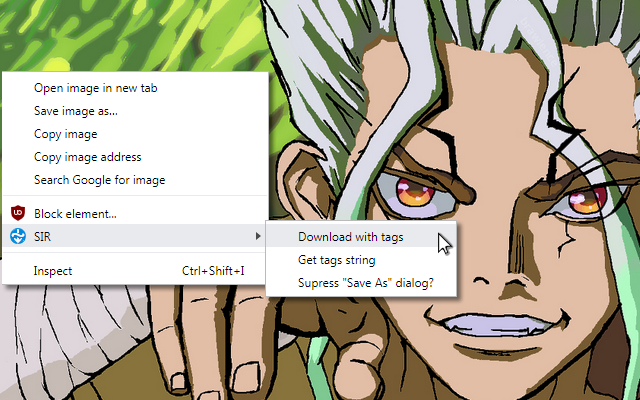
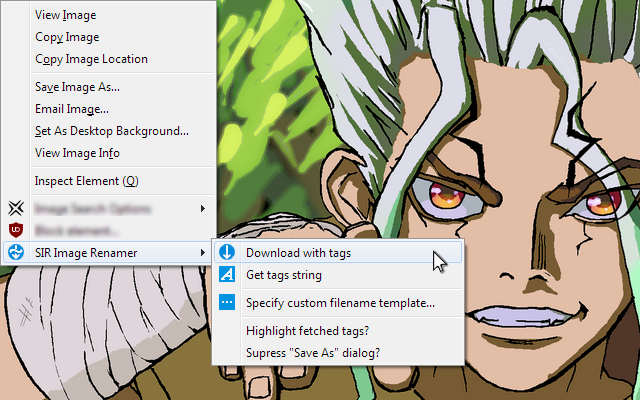
Updated repo description, updated main store image

diff --git a/README.md b/README.md
@@ -13,31 +13,32 @@ The result by default looks like:
 
 `uniq_ID Author_handle@OR Author-Name Picture-Title tag another_tag tag_episode-2 tag&replaced_spaces.ext`,
 
-where `OR` (origin) is based on a name of the supported site as follows: **A**rt**S**tation, **D**eviant**A**rt, **D**raw**F**riends, **H**entai-**F**oundry, **P**i**X**iv, **TU**mblr, **TW**itter.
+where `OR` (origin) is based on a name of the supported site as follows: **A**rt**S**tation, **D**eviant**A**rt, **D**raw**F**riends, **H**entai-**F**oundry, **P**i**X**iv, **TU**mblr, **TW**itter, **M**edical**W**hiskey, **V**idy**A**rt.
 
 The resulting filename is compatible with https://github.com/0xb8/WiseTagger/issues/1 and can be further tweaked by specifying a *custom template* through the extension context menu.
+
 *Please note:*
-- *On some sites some of these identifiers are optional and thus cannot be fetched.*
-- *Currently the only type of tracked Unique picture IDs are `pixiv_(album)_(page)` and `drawfriends_(pictureID)`, as for other sites tracking it is meaningless - I know no ways to get the image based on their respective IDs.*
+- *On some sites any or almost all of identifiers can be lacking (and thus cannot be fetched).*
+- *Currently the only type of tracked Unique picture IDs are `pixiv_(album)_(page)` and `drawfriends_(pictureID)`.*
+- *Medical Whiskey & Vidiyart.booru IDs are in the works.*
 
-## Inner workings ##
-**SIR** marks fetched info with a red dotted line by injecting custom CSS on sites specified above:
+## Technical details ##
+Every time a new page from the listed domains is loaded, **SIR** adds to it a content script, which responds for pings from the extension.
+If the active tab has this script responding, context menu items would be enabled, allowing input.
+
+By user request (`"SIR Image Renamer"` → `"Download with tags"`), content scripts parse the page and pass the info to renaming procedure. This procedure suggests the file downloader a name to save the file by. "Save As" dialogue is invoked depending on whether the `Suppress 'Save As'` option was selected. By default, the image is saved in your browser's default download directory.
+
+*In addition, it is possible to manually get the list of tags by pressing `Ctrl+Shift+1` or selecting `"Get tags string"` in the context menu.*
+
+One can see what info is discovered by **SIR** (`"SIR Image Renamer"` → `"Highlight fetched tags?"`):
 ![Example of tag highlighting](./Img/tag_highlighting.png)
-
-Along with the CSS, a receiver content script is injected, which listens for incoming messages from the main extension script.
-
-As the user reloads the page or changes the active tab, **SIR** checks if the page includes one of those content scripts. If it does, the context menu items will be enabled.
-
-By user request (`"SIR Image Renamer"` → `"Download with tags"`), content scripts parse the page and pass the tags to renaming procedure. This procedure suggests the file downloader a name to save the file by, in your browser's default download directory. "Save As" dialogue is invoked depending on whether the `Suppress 'Save As'` option was selected.
-
-*In addition, it is possible to manually get the list of discovered tags by pressing `Ctrl+Shift+1` or selecting `"Get tags string"` in the context menu.*
 
 Additionally, if you're on *Pixiv* and are trying to save a thumbnail, **SIR** will halt you (but won't restrict your ability to proceed):
 
 ![Example alert](./Img/thumbnail_warning.png)
 
 ## Installation ##
-Stable releases are published through the official stores:
+[Stable releases](https://github.com/Brawlence/SIR/releases) are published through the official stores:
 
 Firefox: https://addons.mozilla.org/firefox/addon/sir_image_renamer/
 
@@ -56,15 +57,12 @@ To install and run the latest (non stable) version of this extension, follow the
 - Overabundant tags can sometimes exceed the filename length limit, thus they are currently trimmed to nearest space symbol below 230 symbols.  
 
 ## Planned features and TODO ##
-- Further refactor the tag parser code, unifying as much as possible
-- Make the highlight toggle-able
-- Add yande.re to the list of supported sites
-- Implement persistent options
-- Add an 'Options' page
+- Implement an 'Options' page (page action) and store persistent user options
+- Add yande.re, danbooru to the list of supported sites
+- Further refactor the tag parser code
 
 ## Known bugs ##
 - *Twitter* - in the timeline, unrelated tags are fetched from the whole page. Please save from individual post page for now.
-- *Chromium 77* (probably others too?) - sometimes the extension fails to fetch tags. Page reload (`F5`) / Tab switch / `Get Tags String` fixes that
-- Every new `Get Tags String` window on the same page is placed 20 px lower than the previous one. Should I keep it as a feature?
+- *Chromium 77* (probably others too?) - sometimes the extension fails to fetch tags. Page reload (`F5`) / Tab switch / `Get Tags String`/`Toggle Highlight` fixes that
  
 If you happen to enconuter an unlisted bug, please submit it through https://github.com/Brawlence/SIR/issues/new
